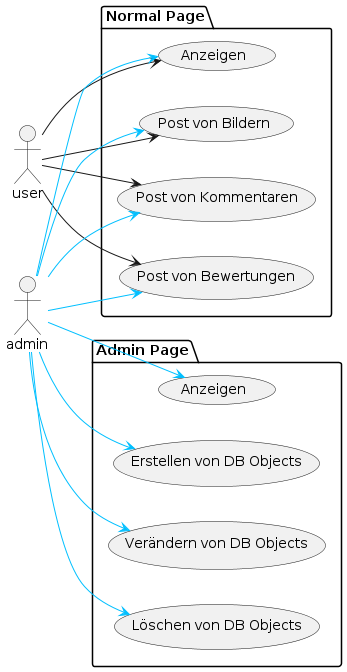
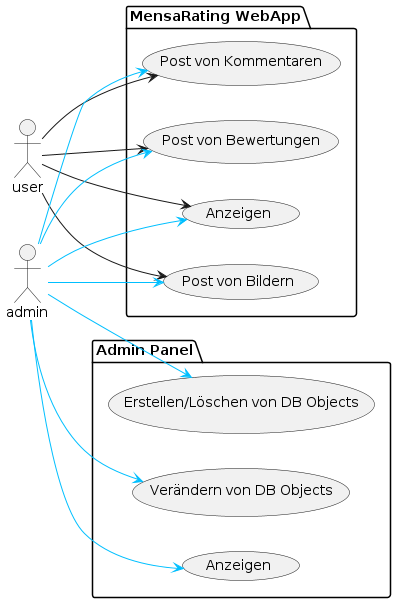
Entwurf fertig

diff --git a/Documentation/chapters/Entwurf.tex b/Documentation/chapters/Entwurf.tex
@@ -1,4 +1,5 @@
 \chapter{Entwurf} \label{chap:entwurf}
+
 \section{Architektur der Datenbank} \label{sec:DB}
 \begin{figure}[ht]
     \centering
@@ -10,3 +11,32 @@
 Diese Skizze repräsentiert den Aufbau der Datenbank. Sie zeigt die verschiedenen
 Entitiys und ihre Beziehungen. Die Datenbankstruktur ist in der Datei
 \code{core/models.py} beschrieben (siehe \ref{code:core.models.py}).
+
+\section{UML-Diagramm der WebApp} \label{sec:UMLS}
+\begin{figure}[ht]
+    \centering
+    \includegraphics[width=0.4\textwidth]{images/UML-Specific.png}
+    \caption{UML Diagramm der WebApp}
+    \label{fig:DB}
+\end{figure}
+
+Dieses UML-Diagramm zeigt die Zusammenhänge aller Komponenten (nicht Klassen,
+häufig einfach Funktine) der WebApp. Dabei sind nur die Verbindungen der
+\code{Index} Seite und der \code{Menu} Seite vorhanden, da es mit allen
+Verbindungen zu unübersichtlich werden würde.
+
+\newpage
+
+\section{Vereinfachtes UML-Diagramm der WebApp} \label{sec:UMLG}
+\begin{figure}[ht]
+    \centering
+    \includegraphics[width=0.8\textwidth]{images/UML-General.png}
+    \caption{UML Diagramm (vereinfacht) der WebApp}
+    \label{fig:DB}
+\end{figure}
+
+Dieses UML diagramm ist weniger spezifisch als das letzte (siehe
+\ref{sec:UMLS}). Im Gegensatz zum letzten Diagramm zeigt dieses allerdings alle
+wichtigen Verbindungen der einzelnen Komponenten der WebApp.
+
+

diff --git a/Documentation/chapters/Spezifikationen.tex b/Documentation/chapters/Spezifikationen.tex
@@ -8,6 +8,12 @@
     \label{fig:UseCases}
 \end{figure}
 
+Die Use Cases für den User sind nur auf der eigentlichen WebApp, während Admins
+neben der WebApp noch Zugriff auf ein Admin Panel haben. Das Admin Panel ist
+eine Web Page der WebApp, wo Admins direkt auf die Datenbank zugreiffen können.
+
+
+
 \newpage
 
 \section{Anforderungen} \label{sec:Anforderungen}
@@ -34,7 +40,7 @@ möglich, Bilder zu posten (siehe \ref{spez:Images}), das Menu zu bewerten (sieh
 \ref{spez:Rating}) und die Posts zu liken (siehe \ref{spez:Liking}).
 
 \subsection{Webscraper} \label{spez:Webscraper}
-
+ 
 Dateien:
 \begin{itemize}
     \item core/webscraper.py (\ref{code:core.webscraper.py})

diff --git a/Documentation/main.tex b/Documentation/main.tex
@@ -109,7 +109,7 @@ natbib=true]{biblatex}
 
 \title{MensaRating WebApp}
 \author{Ian Wasser, Robin Steiner, Nicolas Kaufmann, Valentin Gisi}
-\thesistype{EINF Projekt}
+\thesistype{EINF Projekt: Milestone II}
 \advisors{Betreut durch: Martina Vàzquez}
 \date{19. Februar 2023}
 
